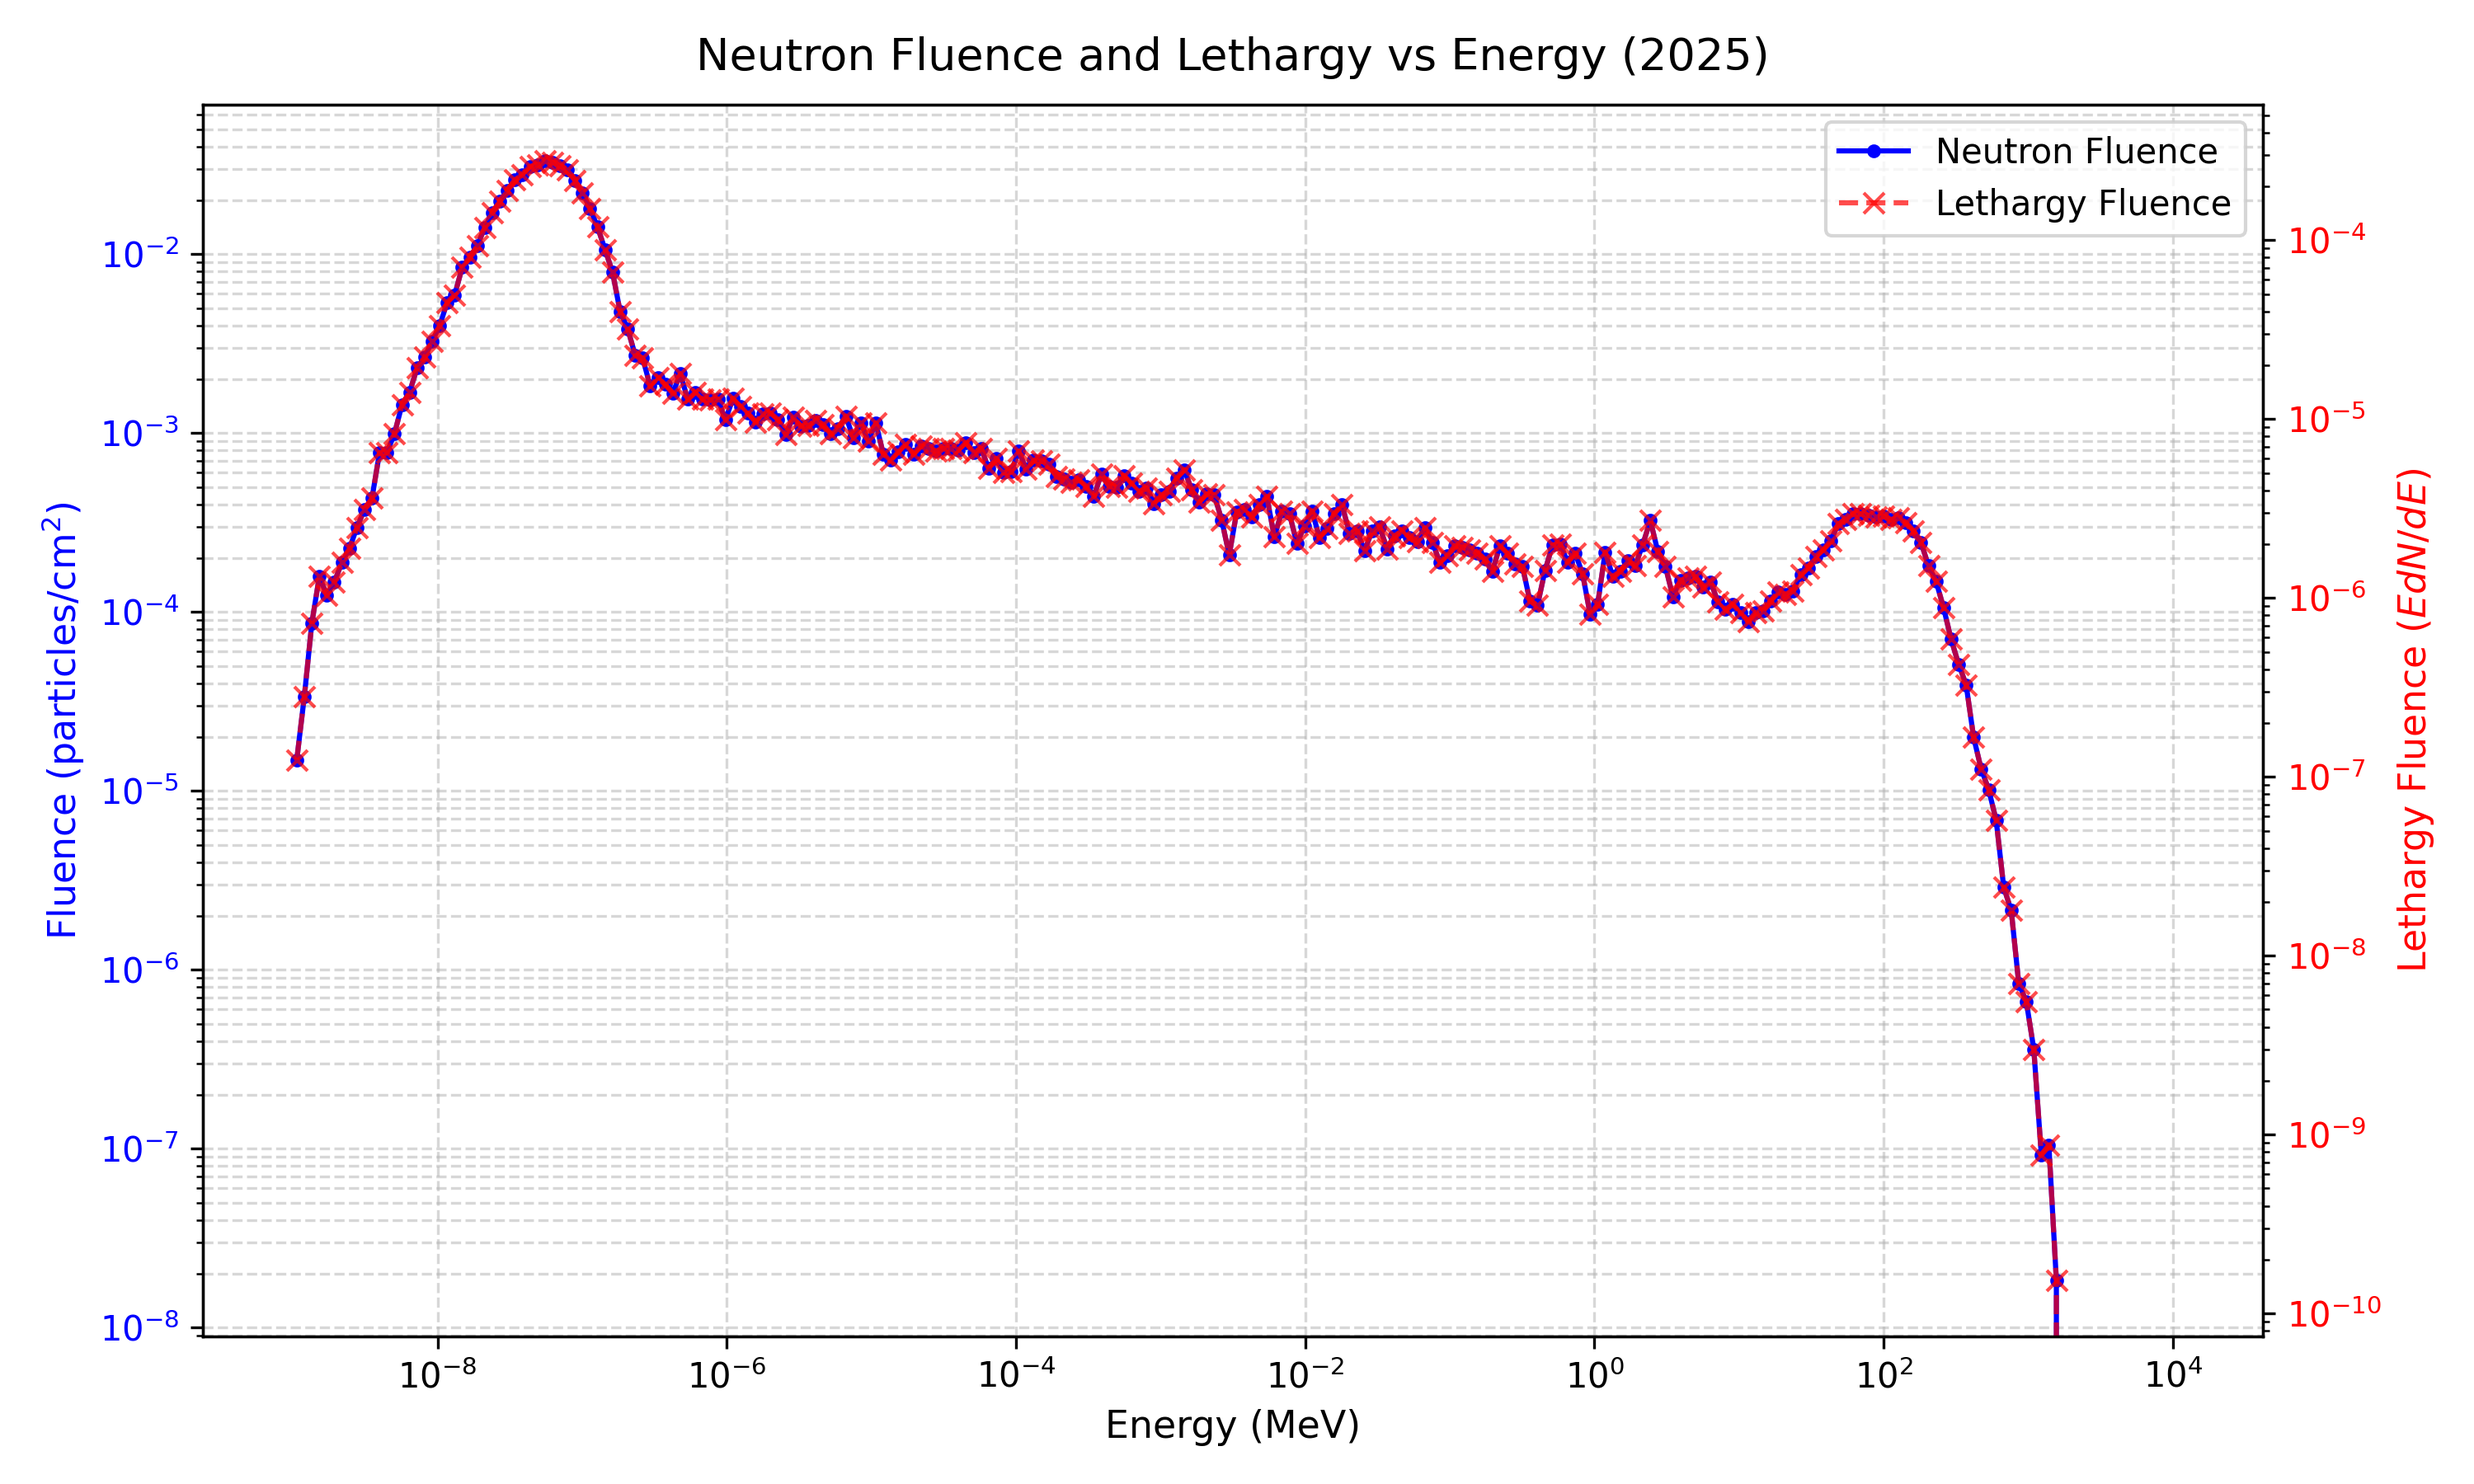
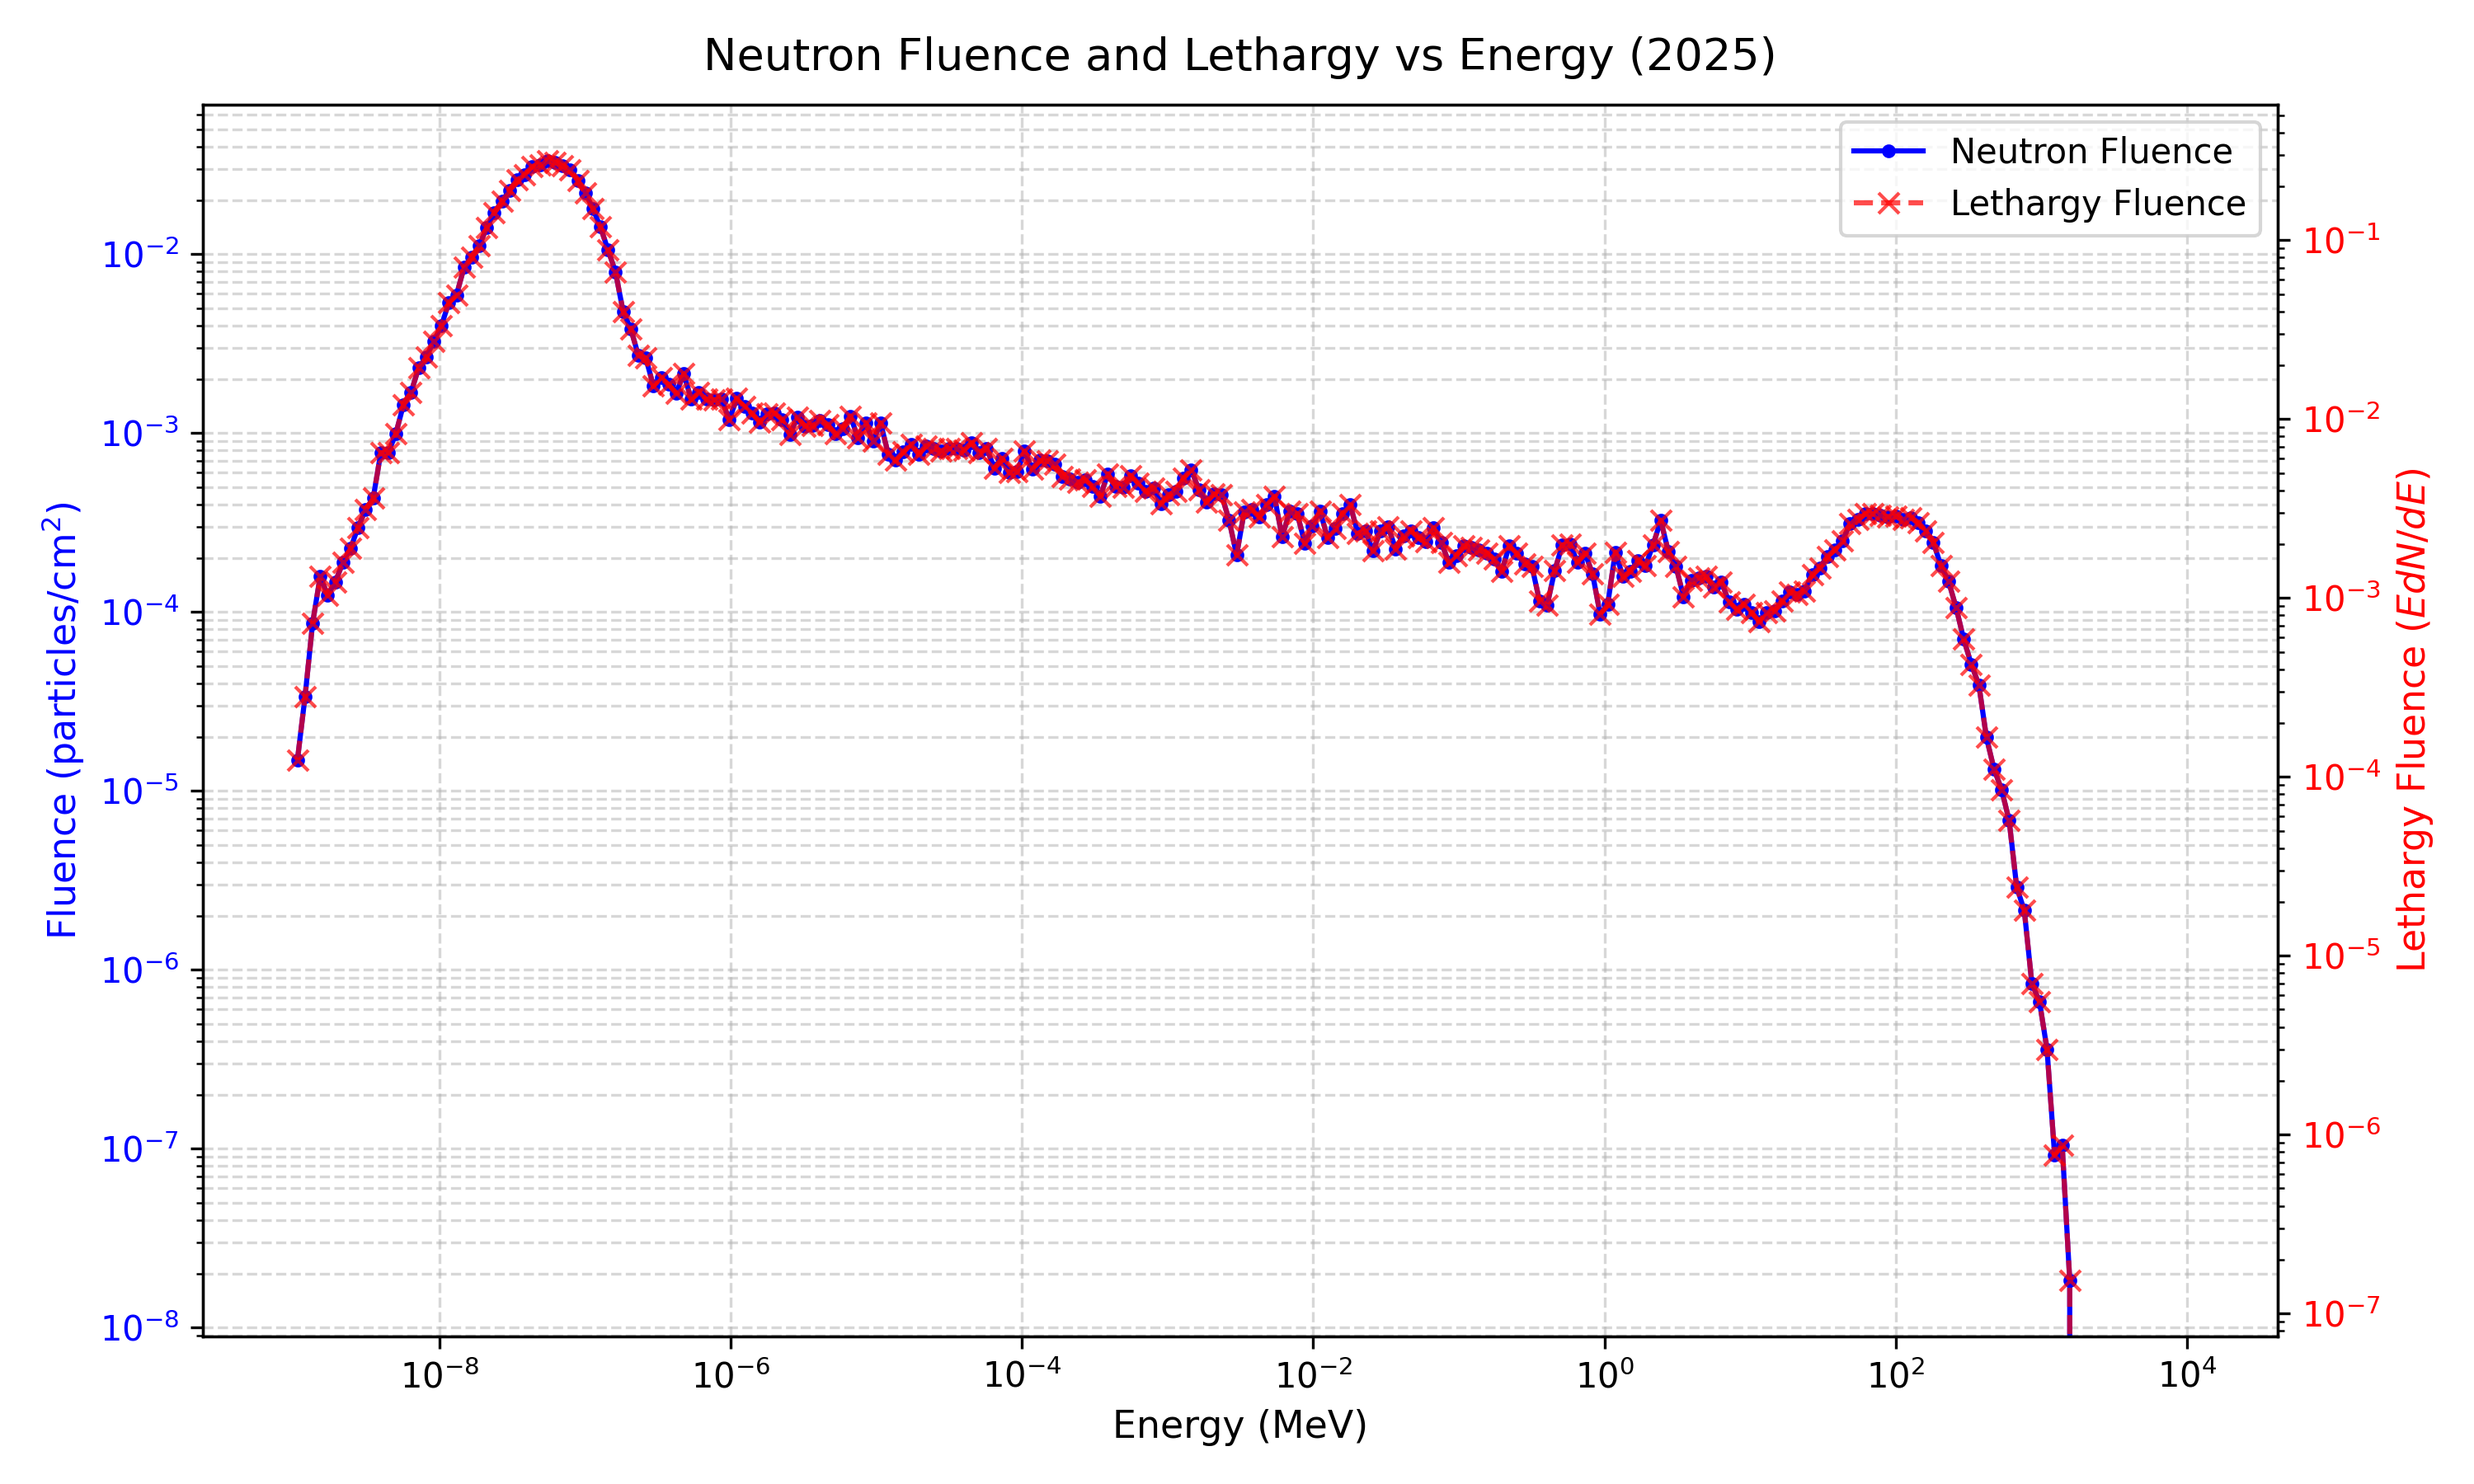
Analysis for the LUPIN correction
Add python code that calculates the correction to be applied on the
LUPIN measurements taking into account the neutron spectrum and the
relative response of the LUPIN with respect to the fluence to dose
convertion function of ICRU.

diff --git a/SwissFEL25/LUPIN_responsefolding/LUPIN-Folding.py b/SwissFEL25/LUPIN_responsefolding/LUPIN-Folding.py
@@ -32,7 +32,9 @@ fluence = dN_dE * dE # to get the fluence (neutrons/cm^2) I have to multiply my 
 
 E_center = np.sqrt(E_min * E_max) # the geometric mean for log-scaled bin centers
 
-lethargy = dN_dE * (E_center/1000) # the lethargy 
+# The lethargy (E * dN/dE)
+# Both E_center and the denominator of dN_dE are in MeV
+lethargy = dN_dE * (E_center) # the lethargy 
 
 fig, ax1 = plt.subplots(figsize=(10, 6))
 
@@ -64,6 +66,12 @@ ax1.legend(lines1 + lines2, labels1 + labels2, loc='upper right')
 plt.title('Neutron Fluence and Lethargy vs Energy (2025)', fontsize=13, pad=10)
 plt.tight_layout()
 plt.savefig('neutron_fluence_plot_pos5.png', dpi=300)
+
+# This is the fluence to H*(10) convertion function in pSVcm2, energy bins in MeV
+# Numbers are taken from "MCNPX SIMULATIONS OF THE RESPONSE OF THE EXTENDED-RANGE REM METER WENDI-2", DOI:10.2298/NTRP140SS25S
+energy_fluence_to_H10_function = [9.492218410280988e-9, 7.79370003310337e-8, 1.8450523636359488e-7, 6.391572541760222e-7, 0.000001196590178695872, 0.0000027823102149957592, 0.000005307285683717842, 0.000010231106652003436, 0.000023278138167773893, 0.000042483917203395035, 0.00008076191527801742, 0.00018928383651851429, 0.0003635068849352923, 0.0006903189177272841, 0.0015915557824633265, 0.002983585657778197, 0.005645429347979109, 0.012824224181601233, 0.02477975812960878, 0.04713481248081918, 0.06763915344644195, 0.11162795508530567, 0.14910430495168958, 0.2021168295695759, 0.2825530174737817, 0.3761227679543664, 0.5621630080012422, 0.8581092921177734, 1.193311490116029, 1.9315797200635523, 3.0635427165248004, 5.924792950263549, 10.620032233831877, 15.879348937441032, 25.5432651555736, 37.24580147079381, 60.24223934384477, 92.0448653985943, 117.69899660418108, 169.5378901352275, 315.4687877287317, 401.7072772240769, 484.8280013467348, 592.2872514265484, 775.1935095763772, 938.3016521377199, 1371.130530716348, 1805.7079793741932, 2623.723141019056, 4015.405527485102]
+
+fluence_to_H10_function = [6.466250424686161, 8.799679730059975, 10.311071254352676, 12.550073554335057, 13.110995769306358, 13.04732071640402, 12.938089587841061, 12.36783915759269, 11.533934092774762, 10.919057066048893, 10.306481384258957, 9.570783817289552, 9.149872743451809, 8.556373881792219, 8.014033284880584, 7.680080716074246, 7.548324338039095, 7.711408181310479, 10.092721735729185, 15.751225781458523, 22.92952436337824, 39.43955380203264, 58.34955046204815, 85.68835482460437, 129.1868168874242, 168.6254770987624, 231.96883530095405, 318.4074658501491, 370.05932308196606, 419.7154323430968, 416.52189589866686, 404.15489820942605, 400.77134563145006, 470.27585035359493, 592.2088584676992, 515.0339239286063, 405.1138282879553, 319.4097514591874, 283.28833951915, 242.9008838853542, 303.56107190068565, 343.66199531090075, 413.0752985273366, 478.6141706126125, 562.9223957316359, 651.3011760820857, 723.0153836888301, 790.8497596100315, 854.9824782620643, 935.9175337863275]
 
 # LUPIN incident neutron energy values in MeV
 # Data from "Experimental characterization of the LUPIN Rem counter in monoenergetic neutron fields"
@@ -128,3 +136,139 @@ lupin_ratio_response = np.array([
     0.7624849207027067, 0.6820925516030660, 0.7191230350418380,
     0.7105233980818508
 ])
+
+from scipy.interpolate import interp1d
+
+# ==============================================================================
+# DATA PREPARATION & INTERPOLATION
+# ==============================================================================
+# Convert lists to numpy arrays for interpolation routines
+icru_energies = np.array(energy_fluence_to_H10_function)
+icru_factors = np.array(fluence_to_H10_function)
+
+# Interpolate ICRU conversion factors.
+# Using log-log interpolation because both energy and conversion factors
+# span multiple orders of magnitude. For energies outside the ICRU vector bounds
+# (e.g., above 4 GeV or below 9.5e-9 MeV), we hold the edge values constant.
+interp_icru_log = interp1d(
+    np.log10(icru_energies),
+    np.log10(icru_factors),
+    kind='linear',
+    bounds_error=False,
+    fill_value=(np.log10(icru_factors[0]), np.log10(icru_factors[-1]))
+)
+
+# Wrapper to safely convert back from log space
+def get_icru_factor(e):
+    return 10**(interp_icru_log(np.log10(e)))
+
+# Interpolate LUPIN ratio response.
+# Using log-linear interpolation because the ratio fluctuates linearly around 1,
+# but the X-axis (energy) spans decades. Edge values are held constant for extrapolations.
+interp_lupin_ratio = interp1d(
+    np.log10(lupin_energies_MeV),
+    lupin_ratio_response,
+    kind='linear',
+    bounds_error=False,
+    fill_value=(lupin_ratio_response[0], lupin_ratio_response[-1])
+)
+
+def get_lupin_ratio(e):
+    return interp_lupin_ratio(np.log10(e))
+
+# ==============================================================================
+# DOSE AND CORRECTION FACTOR CALCULATION
+# ==============================================================================
+# Evaluate reference data at the simulated FLUKA bin centers (E_center)
+icru_at_sim_energies = get_icru_factor(E_center)
+lupin_ratio_at_sim_energies = get_lupin_ratio(E_center)
+
+# Calculate the "True" ambient dose equivalent H*(10) per bin (in pSv)
+# Formula: Fluence (cm^-2) * Conversion Factor (pSv * cm^2)
+true_dose_per_bin = fluence * icru_at_sim_energies
+total_true_dose = np.sum(true_dose_per_bin)
+
+# Calculate the LUPIN estimated ambient dose equivalent H*(10) per bin (in pSv)
+# Formula: True Dose per bin * LUPIN Response Ratio
+lupin_dose_per_bin = true_dose_per_bin * lupin_ratio_at_sim_energies
+total_lupin_dose = np.sum(lupin_dose_per_bin)
+
+# Calculate the final correction factor for the LUPIN detector
+# If LUPIN overestimates the dose, C < 1. If it underestimates, C > 1.
+lupin_correction_factor = total_true_dose / total_lupin_dose
+
+# ==============================================================================
+# OUTPUT RESULTS
+# ==============================================================================
+print("-" * 50)
+print(f"Total True H*(10) Dose:  {total_true_dose:.4e} pSv")
+print(f"Total LUPIN H*(10) Dose: {total_lupin_dose:.4e} pSv")
+print(f"LUPIN Correction Factor: {lupin_correction_factor:.4f}")
+print("-" * 50)
+
+# ==============================================================================
+# PLOTTING CONFIGURATION (Toggle mask on/off)
+# ==============================================================================
+use_lupin_mask = False  # Set to False to disable masking and show full extrapolation
+
+if use_lupin_mask:
+    # Restrict arrays strictly to the original LUPIN energy bounds
+    lupin_plot_mask = (E_center >= lupin_energies_MeV.min()) & (E_center <= lupin_energies_MeV.max())
+    plot_E = E_center[lupin_plot_mask]
+    plot_ratio = lupin_ratio_at_sim_energies[lupin_plot_mask]
+else:
+    # Use full simulation spectrum arrays (including flat extrapolations)
+    plot_E = E_center
+    plot_ratio = lupin_ratio_at_sim_energies
+
+# --- Plot 1: LUPIN Response Ratio vs Energy (Log-Log) ---
+fig, ax = plt.subplots(figsize=(10, 5))
+
+# Arrays adapt dynamically based on the use_lupin_mask flag
+ax.plot(plot_E, plot_ratio, color='darkviolet', marker='.', linestyle='-', linewidth=1.5, label='LUPIN Response Ratio')
+
+ax.set_xscale('log')
+ax.set_yscale('log')
+ax.set_xlabel('Energy (MeV)', fontsize=11)
+ax.set_ylabel('Response Ratio (Response / ICRU Factor)', fontsize=11)
+ax.grid(True, which="both", linestyle="--", alpha=0.5)
+ax.axhline(1.0, color='gray', linestyle=':', alpha=0.7, label='Ideal Response (1.0)')
+
+# Enforce view limits only if the mask is enabled
+if use_lupin_mask:
+    ax.set_xlim(lupin_energies_MeV.min(), lupin_energies_MeV.max())
+
+ax.legend(loc='upper right')
+plt.title('LUPIN Detector Response Ratio vs Incident Neutron Energy', fontsize=13, pad=10)
+plt.tight_layout()
+plt.savefig('lupin_response_ratio_only.png', dpi=300)
+plt.close()
+
+# --- Plot 2: Vertical Subplots ---
+fig, (ax_top, ax_bot) = plt.subplots(2, 1, figsize=(10, 8), sharex=True)
+
+# Top Subplot: Full Neutron Fluence from FLUKA (always full range)
+ax_top.plot(E_center, fluence, color='blue', marker='.', linestyle='-', linewidth=1.5, label='Neutron Fluence')
+ax_top.set_yscale('log')
+ax_top.set_ylabel('Fluence (particles/cm$^2$)', fontsize=11)
+ax_top.grid(True, which="both", linestyle="--", alpha=0.5)
+ax_top.set_title('Neutron Spectrum Fluence vs LUPIN Response Curve Comparison', fontsize=13, pad=10)
+ax_top.legend(loc='upper right')
+
+# Bottom Subplot: Interpolated LUPIN Response Ratio (dynamic range)
+ax_bot.plot(plot_E, plot_ratio, color='darkviolet', marker='.', linestyle='-', linewidth=1.5, label='LUPIN Response Ratio')
+ax_bot.set_xscale('log')
+ax_bot.set_yscale('log')
+ax_bot.set_xlabel('Energy (MeV)', fontsize=11)
+ax_bot.set_ylabel('Response Ratio', fontsize=11)
+ax_bot.axhline(1.0, color='gray', linestyle=':', alpha=0.7)
+ax_bot.grid(True, which="both", linestyle="--", alpha=0.5)
+ax_bot.legend(loc='upper right')
+
+# Align the shared X-axis limits to the LUPIN definition range if masked
+if use_lupin_mask:
+    ax_bot.set_xlim(lupin_energies_MeV.min(), lupin_energies_MeV.max())
+
+plt.tight_layout()
+plt.savefig('neutron_fluence_and_lupin_ratio_stacked.png', dpi=300)
+plt.close()
